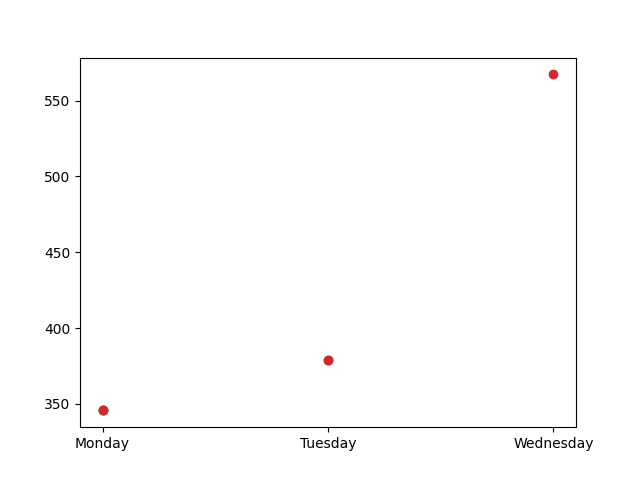
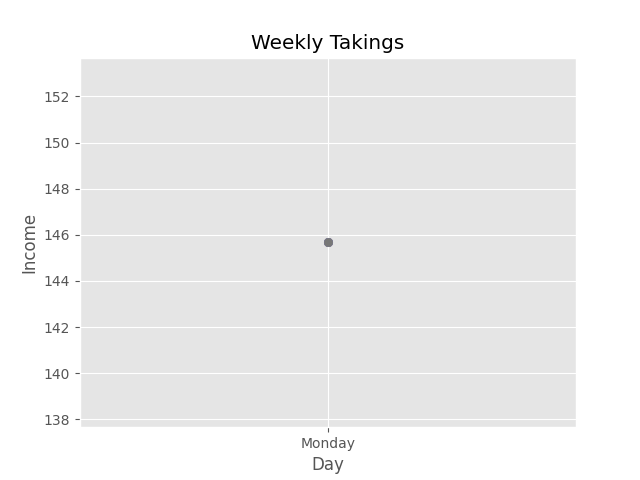
added charts

diff --git a/website/templates/days.html b/website/templates/days.html
@@ -2,14 +2,34 @@
 
 {% block content %}
 
-<h1>Today's Figures</h1>
-    <p>MVP
-        {{ figures.mvp }}
-    </p>
+<h2>Today's Figures</h2>
 
-    <p> BestSeller
-        {{ figures.bestseller}}
-    </p>
+<div class="day-columns">
+    <div class="col">
+        {% if figures %}
+        <p><h4>MVP</h4>
+            {{ figures.mvp }}
+        </p>
 
-    
+        <p> <h4>BestSeller</h4>
+            {{ figures.bestseller}}
+        </p>
+        <p><h4>Profit</h4>
+            {{ figures.money_made }}
+        </p>
+
+        <p> <h4>Worstseller</h4>
+            {{ figures.worstseller}}
+        </p>
+        {% else %}
+        <p> You have not inputted the daily figure breakdown from today.</p>
+        <p>Got the data? Add it <a href="{{url_for('my_view.home')}}">here</a></p>
+        {% endif %}
+    </div>
+    <div class="col">
+        <h3>Payment Breakdown</h3>
+        <img src="{{url_for('static', filename='images/pie_chart.png')}}">
+    </div>
+</div>
+
 {% endblock %}

diff --git a/website/static/css/style.css b/website/static/css/style.css
@@ -18,8 +18,12 @@ header, footer{
 header h1{
     font-family: 'Roboto Slab', serif;
     font-size: 3rem;
-    text-shadow: 1px 1px 3px black;
+    text-shadow: 1px 1px 2px black;
     margin: 0px;
+}
+
+h2, h3{
+    text-align: center;
 }
 
 header p{
@@ -84,6 +88,11 @@ button{
     margin-top: 20px;
 }
 
+button:hover{
+    background-color: green;
+    cursor: pointer;
+}
+
 .weekly-summary{
     display: flex;
     flex-wrap: wrap;
@@ -126,4 +135,24 @@ button{
 
 .graph-box{
     width: 100%;
+}
+
+.day-columns{
+    display: flex;
+    width:100%;
+    border: solid 1px black;
+    justify-content: space-evenly;
+}
+
+.col{
+    width:45%;
+    margin: 20px auto;
+    background-color: rgb(232, 232, 232);
+    padding: 20px;
+    box-shadow: 2px 2px 3px grey;
+    text-align: center;
+}
+
+.col > img {
+    width:90%;
 }

diff --git a/website/templates/base.html b/website/templates/base.html
@@ -17,8 +17,11 @@
                 <a href="{{ url_for('my_view.home')}}">Home</a>
                 <a href="{{ url_for('my_view.monday')}}">Monday</a>
                 <a href="{{ url_for('my_view.tuesday')}}">Tuesday</a>
-                <a href="#"> Link</a>
-                <a href="#"> Link</a>
+                <a href="{{ url_for('my_view.wednesday')}}">Wednesday</a>
+                <a href="{{ url_for('my_view.thursday')}}">Thursday</a>
+                <a href="{{ url_for('my_view.friday')}}">Friday</a>
+                <a href="{{ url_for('my_view.saturday')}}">Saturday</a>
+                <a href="{{ url_for('my_view.sunday')}}">Sunday</a>
             </nav>
         </header>
         <div>

diff --git a/website/templates/index.html b/website/templates/index.html
@@ -2,6 +2,9 @@
 
 {% block content %}
 
+{% if message %}
+<p class="error_mes">{{message}}</p>
+{% endif %}
 <details>
 
     <summary> Expand to Input Data</summary>

diff --git a/website/views.py b/website/views.py
@@ -23,6 +23,7 @@ my_view = Blueprint("my_view", __name__)
 
 @my_view.route("/")
 def home():
+    message = request.args.get("message", None)
     salesfigures_list = Salesfigures.query.all()
     if len(salesfigures_list)>0:
         df = pd.DataFrame([(r.id, r.money_made, r.biggest_spend, r.bestseller, r.worstseller, r.mvp ) for r in salesfigures_list], columns=['id', 'Profit', "Biggest Spend", "Bestseller", "Worstseller", "MVP"])
@@ -38,25 +39,33 @@ def home():
 
         days = [id_to_day.get(r.id) for r in salesfigures_list]
         profit = df["Profit"].values
+        plt.style.use('ggplot')
         plt.scatter(days,profit)
+        plt.title("Weekly Takings")
+        plt.xlabel("Day")
+        plt.ylabel("Income")
         plt.savefig('website/static/images/main_plot.png')
 
-        return render_template("index.html", salesfigures_list=salesfigures_list, mvp_name=mvp_name, max_spend = max_spend, bestseller = bestseller, worstseller = worstseller, biggest_spend=biggest_spend, biggest_spend_day=biggest_spend_day)
+        return render_template("index.html", salesfigures_list=salesfigures_list, mvp_name=mvp_name, max_spend = max_spend, bestseller = bestseller, worstseller = worstseller, biggest_spend=biggest_spend, biggest_spend_day=biggest_spend_day, message=message)
     else:
-        return render_template("index.html", salesfigures_list = salesfigures_list)
+        return render_template("index.html", salesfigures_list = salesfigures_list, message=message)
 
 
 @my_view.route("/add", methods=["POST"])
 def add():
-    money_made = request.form.get("money_made", type = float)
-    biggest_spend = request.form.get("biggest_spend", type = float)
-    bestseller = request.form.get("bestseller")
-    worstseller = request.form.get("worstseller")
-    mvp = request.form.get("mvp")
-    new_salesfigures = Salesfigures(money_made = money_made, biggest_spend=biggest_spend, bestseller=bestseller, worstseller=worstseller, mvp=mvp)
-    db.session.add(new_salesfigures)
-    db.session.commit()
-    return redirect(url_for("my_view.home"))
+    try:
+        money_made = request.form.get("money_made", type = float)
+        biggest_spend = request.form.get("biggest_spend", type = float)
+        bestseller = request.form.get("bestseller")
+        worstseller = request.form.get("worstseller")
+        mvp = request.form.get("mvp")
+        new_salesfigures = Salesfigures(money_made = money_made, biggest_spend=biggest_spend, bestseller=bestseller, worstseller=worstseller, mvp=mvp)
+        db.session.add(new_salesfigures)
+        db.session.commit()
+        return redirect(url_for("my_view.home"))
+    except:
+        message = "There was an error adding your record. Ensure all values are entered"
+        return redirect(url_for("my_view.home", message=message))
 
 @my_view.route("/monday")
 def monday():
@@ -68,6 +77,30 @@ def tuesday():
     figures = Salesfigures.query.filter_by(id=2).first()
     return render_template("days.html", figures = figures)
 
+@my_view.route("/wednesday")
+def wednesday():
+    figures = Salesfigures.query.filter_by(id=3).first()
+    return render_template("days.html", figures = figures)
+
+@my_view.route("/thursday")
+def thursday():
+    figures = Salesfigures.query.filter_by(id=4).first()
+    return render_template("days.html", figures = figures)
+
+@my_view.route("/friday")
+def friday():
+    figures = Salesfigures.query.filter_by(id=5).first()
+    return render_template("days.html", figures = figures)
+
+@my_view.route("/saturday")
+def saturday():
+    figures = Salesfigures.query.filter_by(id=6).first()
+    return render_template("days.html", figures = figures)
+
+@my_view.route("/sunday")
+def sunday():
+    figures = Salesfigures.query.filter_by(id=7).first()
+    return render_template("days.html", figures = figures)
 # @my_view.route("/generate")
 # def generate():
 #     results = Salesfigures.query.all()

diff --git a/website/models.py b/website/models.py
@@ -3,9 +3,9 @@ from . import db
 class Salesfigures(db.Model):
     # the variable id is a column of a unique int, used to look up users
     id = db.Column(db.Integer, primary_key = True)
-    money_made = db.Column(db.Integer())
-    biggest_spend = db.Column(db.Integer())
-    bestseller = db.Column(db.String(40))
-    worstseller = db.Column(db.String(40))
-    mvp = db.Column(db.String(40))
+    money_made = db.Column(db.Integer(), nullable=False)
+    biggest_spend = db.Column(db.Integer(),nullable=False)
+    bestseller = db.Column(db.String(40),nullable=False)
+    worstseller = db.Column(db.String(40),nullable=False)
+    mvp = db.Column(db.String(40),nullable=False)
     
